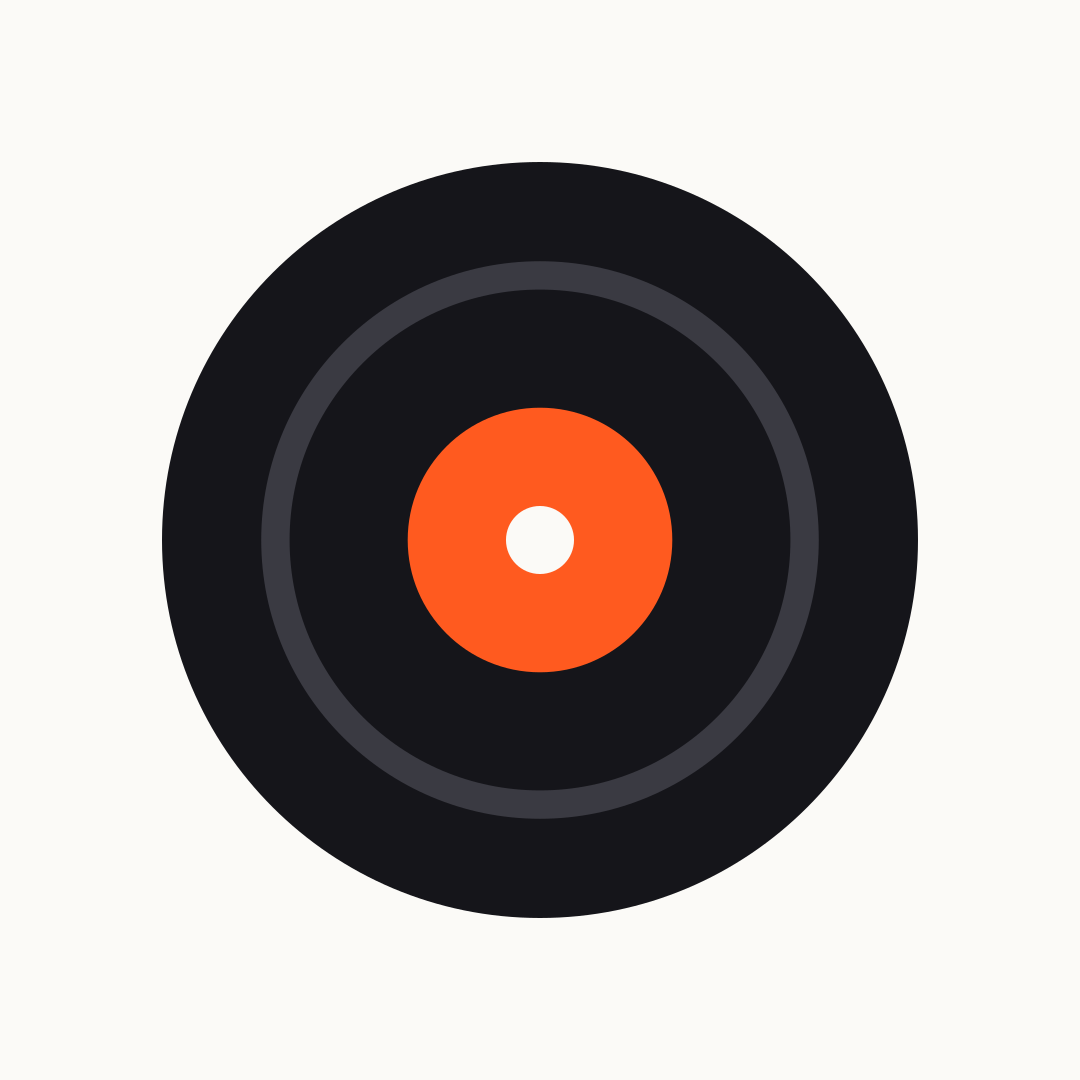
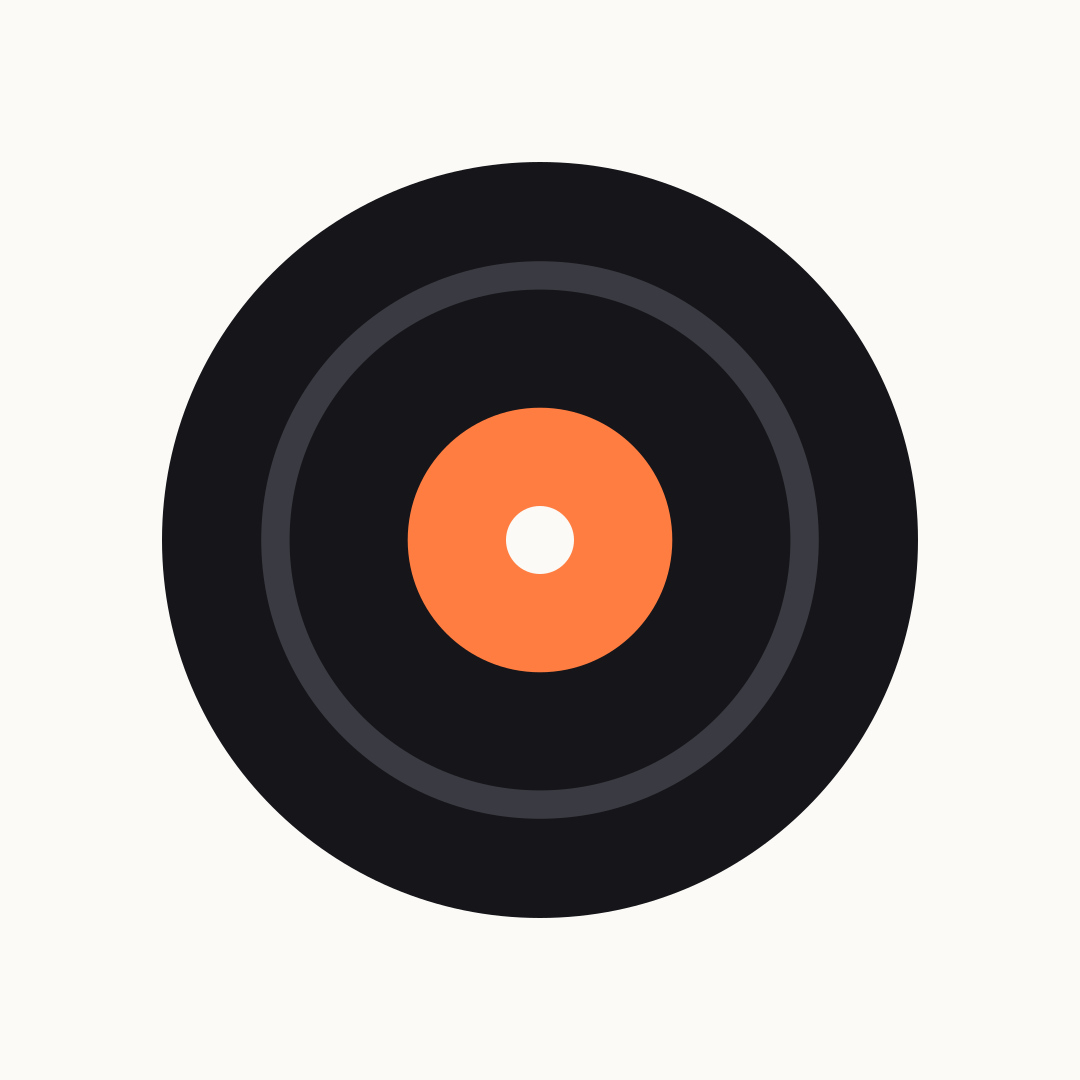
fix(a11y): kontrast tekstu powyżej 7:1, jak obiecuje deklaracja
Niebieski i pomarańcz z makiety dawały linkom 6,3:1, a czarnemu tekstowi na
pomarańczu 5,8:1 – deklaracja dostępności obiecuje ponad 7:1.

- niebieski #2b3bff → #2230e0 (7,8:1 na paper, 7,1:1 na panelu, biały na
  nim 8,2:1), pomarańcz #ff5a1f → #ff7d40 (ink na nim 7,2:1)
- jasny tekst na niebieskich kartach #e3e7ff → #f2f4ff (7,5:1)
- te same wartości w kartach OG, ikonach i ilustracjach; ikony
  i okładka przegenerowane
- nagłówek sekcji do 24 znaków szerokości – „Statut i sprawozdania”
  łamał się bez potrzeby

Changed region(s): [[0.3667, 0.3667, 0.6417, 0.6417]]

diff --git a/src/styles/global.css b/src/styles/global.css
@@ -18,12 +18,15 @@
 	--color-panel: #f1eee8; /* tło bloków w panelu cookies, slot bez zdjęcia */
 	--color-fog: #c9c7c0; /* tekst drugiego planu na ink – 10:1 */
 
-	/* Akcenty. Tekst na nich jest zawsze ink (pomarańcz 5,9:1, limonka 15:1),
-     a na niebieskim – biały (6,6:1). Niebieski to też kolor linków na paper
-     (6,3:1); pozostałe akcenty nie niosą tekstu na jasnym tle. */
-	--color-blue: #2b3bff;
+	/* Akcenty. Tekst na nich jest zawsze ink, a na niebieskim – biały. Deklaracja
+     dostępności obiecuje kontrast tekstu powyżej 7:1, więc niebieski i pomarańcz
+     są o krok ciemniejszy / jaśniejszy niż na makiecie (#2b3bff, #ff5a1f – tam
+     6,3:1 i 5,8:1): niebieski jako link ma 7,8:1 na paper i 7,1:1 na panelu,
+     biały na nim 8,2:1, ink na pomarańczu 7,2:1. Pozostałe akcenty nie niosą
+     tekstu na jasnym tle. */
+	--color-blue: #2230e0;
 	--color-blue-deep: #1a26b8; /* hover linku */
-	--color-orange: #ff5a1f;
+	--color-orange: #ff7d40;
 	--color-lime: #d4ff3a;
 	--color-pink: #ff8ad8;
 	--color-sun: #ffc93c;

diff --git a/src/og.ts b/src/og.ts
@@ -52,8 +52,8 @@ export const PALETTE = {
 	ink: "#15151a",
 	muted: "#4a4a53",
 	hairline: "#e6e3dc",
-	blue: "#2b3bff",
-	orange: "#ff5a1f",
+	blue: "#2230e0",
+	orange: "#ff7d40",
 	lime: "#d4ff3a",
 	pink: "#ff8ad8",
 	sun: "#ffc93c",

diff --git a/AGENTS.md b/AGENTS.md
@@ -521,9 +521,12 @@ before the law requires it – the first municipal grant makes it mandatory.
 that must stand off the page). Tokens in `@theme`: `ink`, `body`, `muted`
 (#4a4a53, darker than the canvas's #55555f, which gives only 6.4:1 on `panel`
 – the accessibility statement promises text above 7:1), `hairline`, `panel`,
-`fog` (secondary text on ink), and six accents – `blue` (also the link colour,
-6.3:1 on paper), `orange`, `lime`, `pink`, `sun`, `mint`. Text on an accent is
-ink, except white on blue. A fluid type scale (`--text-hero`, `-page`, `-band`,
+`fog` (secondary text on ink), and six accents – `blue` (also the link colour),
+`orange`, `lime`, `pink`, `sun`, `mint`. Text on an accent is ink, except white
+(or `#f2f4ff`) on blue. Blue and orange are a step off the canvas (#2b3bff →
+#2230e0, #ff5a1f → #ff7d40) for the same 7:1 promise: the canvas values give
+links 6.3:1 and ink on orange 5.8:1. Check any new text/background pair against
+7:1 before using it. A fluid type scale (`--text-hero`, `-page`, `-band`,
 `-post`, `-item`, `-row`) with the 1440 px mock's values as `clamp()` maxima.
 
 Type: **Instrument Serif** (400 only, with italic) for every heading and the
